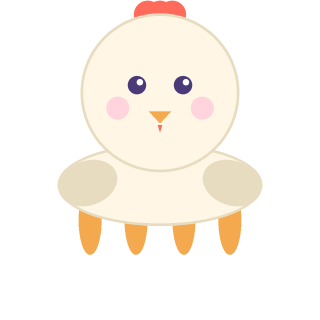
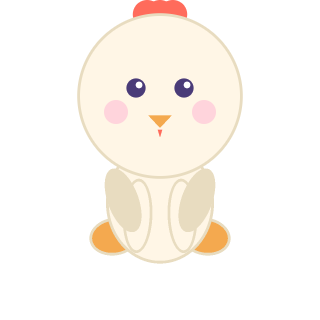
Refine characters around the original face style

diff --git a/tools/generate-animals.js b/tools/generate-animals.js
@@ -25,6 +25,11 @@ function fillCircleOutlined(cv, cx, cy, r, fillColor, outlineColor, outlineWidth
   fillCircle(cv, cx, cy, r, fillColor);
 }
 
+function fillEllipseOutlined(cv, cx, cy, rx, ry, rotation, fillColor, outlineColor, outlineWidth) {
+  fillEllipse(cv, cx, cy, rx + outlineWidth, ry + outlineWidth, rotation, outlineColor);
+  fillEllipse(cv, cx, cy, rx, ry, rotation, fillColor);
+}
+
 function drawEyes(cv, cx, cy, r, eyeDX = 0.32, eyeY = -0.02) {
   fillCircle(cv, cx - r * eyeDX, cy + r * eyeY, r * 0.12, INK);
   fillCircle(cv, cx + r * eyeDX, cy + r * eyeY, r * 0.12, INK);
@@ -37,48 +42,37 @@ function drawBlush(cv, cx, cy, r, color = '#FFB0C8') {
   fillCircle(cv, cx + r * 0.55, cy + r * 0.2, r * 0.15, color, 0.65);
 }
 
-function drawTail(cv, points, outerColor, innerColor, width) {
-  for (let i = 0; i < points.length - 1; i++) {
-    const a = points[i];
-    const b = points[i + 1];
-    strokeLine(cv, a[0], a[1], b[0], b[1], width + 6, outerColor);
-    strokeLine(cv, a[0], a[1], b[0], b[1], width, innerColor);
-  }
-}
+// The first mascot set was face-only and had a soft, round portrait style.
+// Keep that face as the visual anchor and add a compact seated body beneath
+// it. A narrow torso, two front paws and two side-facing back paws read as a
+// complete animal without turning the character into a wide four-legged toy.
+function drawSeatedBody(cv, cx, headCy, headR, bodyColor, outlineColor, footColor) {
+  const bodyRx = headR * 0.64;
+  const bodyRy = headR * 0.72;
+  const bodyCy = headCy + headR * 1.34;
+  const line = headR * 0.035;
 
-// A clear, friendly four-legged animal stance. The head is intentionally
-// smaller than the torso so children can recognise the animal's body,
-// legs, and defining features instead of seeing nine variations of the same
-// oversized face. Legs are drawn first so the torso overlaps their tops and
-// only the lower "foot" ends peek out below the body.
-function drawQuadrupedBody(cv, cx, headCy, headR, bodyColor, outlineColor, footColor) {
-  // Let the head overlap the shoulders. A hard head/body seam makes the
-  // animal look like two stacked balls; this overlap gives it a neck and a
-  // readable chest while keeping the silhouette simple for young children.
-  const bodyRx = headR * 1.30;
-  const bodyRy = headR * 0.50;
-  const bodyCy = headCy + headR * 1.20;
+  fillEllipseOutlined(cv, cx - headR * 0.57, bodyCy + bodyRy * 0.58,
+    headR * 0.28, headR * 0.2, -0.16, footColor, outlineColor, line);
+  fillEllipseOutlined(cv, cx + headR * 0.57, bodyCy + bodyRy * 0.58,
+    headR * 0.28, headR * 0.2, 0.16, footColor, outlineColor, line);
 
-  const legRx = headR * 0.15;
-  const legRy = headR * 0.45;
-  const legCy = bodyCy + bodyRy * 0.92;
-  [-0.7, -0.24, 0.24, 0.7].forEach((fx) => {
-    fillEllipse(cv, cx + fx * bodyRx, legCy, legRx, legRy, 0, footColor);
-  });
+  fillEllipseOutlined(cv, cx, bodyCy, bodyRx, bodyRy, 0, bodyColor, outlineColor, line);
 
-  fillEllipse(cv, cx, bodyCy, bodyRx + headR * 0.035, bodyRy + headR * 0.035, 0, outlineColor);
-  fillEllipse(cv, cx, bodyCy, bodyRx, bodyRy, 0, bodyColor);
+  fillEllipseOutlined(cv, cx - headR * 0.28, bodyCy + bodyRy * 0.22,
+    headR * 0.15, headR * 0.43, 0.04, bodyColor, outlineColor, line);
+  fillEllipseOutlined(cv, cx + headR * 0.28, bodyCy + bodyRy * 0.22,
+    headR * 0.15, headR * 0.43, -0.04, bodyColor, outlineColor, line);
 
   return { bodyCy, bodyRx, bodyRy };
 }
 
 function drawDog(size) {
   const cv = makeCanvas(size, size);
-  const cx = size * 0.5, cy = size * 0.29, r = size * 0.24;
+  const cx = size * 0.5, cy = size * 0.3, r = size * 0.25;
   const fur = '#E8B372', outline = '#C9925A', earColor = '#C9925A', snoutColor = '#FBEBD8';
 
-  drawTail(cv, [[cx + r * 0.9, cy + r * 1.12], [cx + r * 1.35, cy + r * 0.86], [cx + r * 1.42, cy + r * 0.52]], outline, fur, r * 0.16);
-  drawQuadrupedBody(cv, cx, cy, r, fur, outline, outline);
+  drawSeatedBody(cv, cx, cy, r, fur, outline, earColor);
 
   fillEllipse(cv, cx - r * 0.92, cy - r * 0.05, r * 0.3, r * 0.62, 0.35, earColor);
   fillEllipse(cv, cx + r * 0.92, cy - r * 0.05, r * 0.3, r * 0.62, -0.35, earColor);
@@ -96,11 +90,10 @@ function drawDog(size) {
 
 function drawCat(size) {
   const cv = makeCanvas(size, size);
-  const cx = size * 0.5, cy = size * 0.29, r = size * 0.24;
+  const cx = size * 0.5, cy = size * 0.3, r = size * 0.25;
   const fur = '#FFEFD9', outline = '#E9C9A0', patch = '#F4A94F';
 
-  drawTail(cv, [[cx - r * 0.95, cy + r * 1.18], [cx - r * 1.35, cy + r * 0.95], [cx - r * 1.38, cy + r * 0.62]], outline, fur, r * 0.15);
-  drawQuadrupedBody(cv, cx, cy, r, fur, outline, outline);
+  drawSeatedBody(cv, cx, cy, r, fur, outline, outline);
 
   fillPolygon(cv, earTriangle(cx, cy, r, -125, 0.8, 0.62, 0.62), outline);
   fillPolygon(cv, earTriangle(cx, cy, r, -55, 0.8, 0.62, 0.62), outline);
@@ -129,10 +122,10 @@ function drawCat(size) {
 
 function drawCow(size) {
   const cv = makeCanvas(size, size);
-  const cx = size * 0.5, cy = size * 0.29, r = size * 0.24;
+  const cx = size * 0.5, cy = size * 0.3, r = size * 0.25;
   const fur = '#FDFBF5', outline = '#D8D0C0', patch = '#6B5B4A', snoutColor = '#FFC7D6', hornColor = '#F0E4D0';
 
-  const body = drawQuadrupedBody(cv, cx, cy, r, fur, outline, outline);
+  const body = drawSeatedBody(cv, cx, cy, r, fur, outline, outline);
   fillEllipse(cv, cx - body.bodyRx * 0.62, body.bodyCy, body.bodyRx * 0.28, body.bodyRy * 0.42, -0.2, patch);
   fillEllipse(cv, cx + body.bodyRx * 0.58, body.bodyCy + body.bodyRy * 0.08, body.bodyRx * 0.24, body.bodyRy * 0.38, 0.15, patch);
 
@@ -156,10 +149,10 @@ function drawCow(size) {
 
 function drawFrog(size) {
   const cv = makeCanvas(size, size);
-  const cx = size * 0.5, cy = size * 0.31, r = size * 0.24;
+  const cx = size * 0.5, cy = size * 0.31, r = size * 0.25;
   const skin = '#8BC34A', outline = '#5E8F2E', belly = '#DFF3BC';
 
-  const body = drawQuadrupedBody(cv, cx, cy, r, skin, outline, outline);
+  const body = drawSeatedBody(cv, cx, cy, r, skin, outline, outline);
   fillEllipse(cv, cx, body.bodyCy, body.bodyRx * 0.54, body.bodyRy * 0.56, 0, belly);
   fillCircleOutlined(cv, cx, cy, r, skin, outline, r * 0.035);
 
@@ -178,11 +171,10 @@ function drawFrog(size) {
 
 function drawPig(size) {
   const cv = makeCanvas(size, size);
-  const cx = size * 0.5, cy = size * 0.29, r = size * 0.24;
+  const cx = size * 0.5, cy = size * 0.3, r = size * 0.25;
   const fur = '#FFB3C6', outline = '#E8899E', snoutColor = '#FF8FA8';
 
-  drawTail(cv, [[cx + r * 0.96, cy + r * 1.16], [cx + r * 1.34, cy + r * 1.12], [cx + r * 1.23, cy + r * 0.86], [cx + r * 1.05, cy + r * 0.98]], outline, fur, r * 0.13);
-  drawQuadrupedBody(cv, cx, cy, r, fur, outline, outline);
+  drawSeatedBody(cv, cx, cy, r, fur, outline, outline);
 
   fillPolygon(cv, earTriangle(cx, cy, r, -120, 0.75, 0.42, 0.4), outline);
   fillPolygon(cv, earTriangle(cx, cy, r, -60, 0.75, 0.42, 0.4), outline);
@@ -201,10 +193,10 @@ function drawPig(size) {
 
 function drawChicken(size) {
   const cv = makeCanvas(size, size);
-  const cx = size * 0.5, cy = size * 0.29, r = size * 0.24;
+  const cx = size * 0.5, cy = size * 0.3, r = size * 0.25;
   const feather = '#FFF6E6', outline = '#E8DCC0', comb = '#FF6B5B', beak = '#F4A94F';
 
-  const body = drawQuadrupedBody(cv, cx, cy, r, feather, outline, beak);
+  const body = drawSeatedBody(cv, cx, cy, r, feather, outline, beak);
   fillEllipse(cv, cx - body.bodyRx * 0.72, body.bodyCy - body.bodyRy * 0.05, body.bodyRx * 0.3, body.bodyRy * 0.58, -0.35, outline);
   fillEllipse(cv, cx + body.bodyRx * 0.72, body.bodyCy - body.bodyRy * 0.05, body.bodyRx * 0.3, body.bodyRy * 0.58, 0.35, outline);
 
@@ -220,12 +212,10 @@ function drawChicken(size) {
 
 function drawLion(size) {
   const cv = makeCanvas(size, size);
-  const cx = size * 0.5, cy = size * 0.29, r = size * 0.24;
+  const cx = size * 0.5, cy = size * 0.3, r = size * 0.25;
   const fur = '#F2B84B', outline = '#D89A2E', mane = '#E08A2E', snoutColor = '#FBEBD8';
 
-  drawTail(cv, [[cx + r * 0.9, cy + r * 1.18], [cx + r * 1.38, cy + r * 1.02], [cx + r * 1.46, cy + r * 0.68]], outline, fur, r * 0.15);
-  fillCircle(cv, cx + r * 1.46, cy + r * 0.62, r * 0.22, mane);
-  drawQuadrupedBody(cv, cx, cy, r, fur, outline, outline);
+  drawSeatedBody(cv, cx, cy, r, fur, outline, outline);
 
   const maneCount = 14;
   for (let i = 0; i < maneCount; i++) {
@@ -247,11 +237,10 @@ function drawLion(size) {
 
 function drawElephant(size) {
   const cv = makeCanvas(size, size);
-  const cx = size * 0.5, cy = size * 0.29, r = size * 0.24;
+  const cx = size * 0.5, cy = size * 0.3, r = size * 0.25;
   const fur = '#C3CAD3', outline = '#9AA5B0';
 
-  drawTail(cv, [[cx - r * 0.96, cy + r * 1.12], [cx - r * 1.32, cy + r * 1.2], [cx - r * 1.42, cy + r * 1.02]], outline, fur, r * 0.1);
-  drawQuadrupedBody(cv, cx, cy, r, fur, outline, outline);
+  drawSeatedBody(cv, cx, cy, r, fur, outline, outline);
 
   fillEllipse(cv, cx - r * 1.0, cy - r * 0.08, r * 0.48, r * 0.6, 0.12, outline);
   fillEllipse(cv, cx + r * 1.0, cy - r * 0.08, r * 0.48, r * 0.6, -0.12, outline);
@@ -275,10 +264,10 @@ function drawElephant(size) {
 
 function drawSheep(size) {
   const cv = makeCanvas(size, size);
-  const cx = size * 0.5, cy = size * 0.29, r = size * 0.24;
+  const cx = size * 0.5, cy = size * 0.3, r = size * 0.25;
   const wool = '#FDFBF5', woolOutline = '#E4DED0', face = '#8D7B6B', faceOutline = '#6E5E50';
 
-  const body = drawQuadrupedBody(cv, cx, cy, r, wool, woolOutline, faceOutline);
+  const body = drawSeatedBody(cv, cx, cy, r, wool, woolOutline, faceOutline);
   for (let i = 0; i < 7; i++) {
     const a = Math.PI * (0.15 + i / 7 * 0.7);
     fillCircle(cv, cx + Math.cos(a) * body.bodyRx * 0.88, body.bodyCy + Math.sin(a) * body.bodyRy * 0.84, r * 0.22, wool);

diff --git a/tools/generate-characters.js b/tools/generate-characters.js
@@ -22,23 +22,31 @@ function fillCircleOutlined(cv, cx, cy, r, fillColor, outlineColor, outlineWidth
   fillCircle(cv, cx, cy, r, fillColor);
 }
 
-// A friendly standing body drawn beneath the head. The body is large enough
-// to read as a real character at small sizes, while the head remains the
-// visual focus for toddlers. It is drawn first so the head overlaps the
-// shoulders instead of looking like two stacked circles.
+function fillEllipseOutlined(cv, cx, cy, rx, ry, rotation, fillColor, outlineColor, outlineWidth) {
+  fillEllipse(cv, cx, cy, rx + outlineWidth, ry + outlineWidth, rotation, outlineColor);
+  fillEllipse(cv, cx, cy, rx, ry, rotation, fillColor);
+}
+
+// Preserve the original face-only mascot design and place a narrow, simple
+// body behind it. The head remains the main shape; the torso is deliberately
+// slimmer so the result reads as one character rather than two stacked balls.
 function drawStandingBody(cv, cx, headCy, headR, bodyColor, outlineColor, footColor) {
-  const bodyRx = headR * 0.84;
-  const bodyRy = headR * 0.62;
-  const bodyCy = headCy + headR * 1.16;
+  const bodyRx = headR * 0.6;
+  const bodyRy = headR * 0.74;
+  const bodyCy = headCy + headR * 1.34;
+  const line = headR * 0.035;
 
-  fillEllipse(cv, cx - bodyRx * 0.5, bodyCy + bodyRy * 0.86, headR * 0.24, headR * 0.15, 0.08, footColor);
-  fillEllipse(cv, cx + bodyRx * 0.5, bodyCy + bodyRy * 0.86, headR * 0.24, headR * 0.15, -0.08, footColor);
+  fillEllipseOutlined(cv, cx - headR * 0.34, bodyCy + bodyRy * 0.72,
+    headR * 0.23, headR * 0.15, 0.08, footColor, outlineColor, line);
+  fillEllipseOutlined(cv, cx + headR * 0.34, bodyCy + bodyRy * 0.72,
+    headR * 0.23, headR * 0.15, -0.08, footColor, outlineColor, line);
 
-  fillEllipse(cv, cx - bodyRx * 0.98, bodyCy - bodyRy * 0.05, headR * 0.2, headR * 0.36, 0.4, bodyColor);
-  fillEllipse(cv, cx + bodyRx * 0.98, bodyCy - bodyRy * 0.05, headR * 0.2, headR * 0.36, -0.4, bodyColor);
+  fillEllipseOutlined(cv, cx - bodyRx * 1.02, bodyCy - bodyRy * 0.08,
+    headR * 0.17, headR * 0.34, 0.3, bodyColor, outlineColor, line);
+  fillEllipseOutlined(cv, cx + bodyRx * 1.02, bodyCy - bodyRy * 0.08,
+    headR * 0.17, headR * 0.34, -0.3, bodyColor, outlineColor, line);
 
-  fillEllipse(cv, cx, bodyCy, bodyRx + headR * 0.035, bodyRy + headR * 0.035, 0, outlineColor);
-  fillEllipse(cv, cx, bodyCy, bodyRx, bodyRy, 0, bodyColor);
+  fillEllipseOutlined(cv, cx, bodyCy, bodyRx, bodyRy, 0, bodyColor, outlineColor, line);
 
   return { bodyCy, bodyRx, bodyRy };
 }
@@ -57,7 +65,7 @@ function drawFace(cv, cx, cy, r, { blush = '#FFB0C8', mouth = '#FF6FA5' } = {}) 
 
 function drawBear(size) {
   const cv = makeCanvas(size, size);
-  const cx = size * 0.5, cy = size * 0.31, r = size * 0.27;
+  const cx = size * 0.5, cy = size * 0.31, r = size * 0.25;
   const fur = '#E3A76F';
   const furDark = '#C98B57';
   const outline = '#B87A45';
@@ -84,7 +92,7 @@ function drawBear(size) {
 
 function drawCat(size) {
   const cv = makeCanvas(size, size);
-  const cx = size * 0.5, cy = size * 0.31, r = size * 0.27;
+  const cx = size * 0.5, cy = size * 0.31, r = size * 0.25;
   const fur = '#FFEFD9';
   const outline = '#E9C9A0';
   const patch = '#F4A94F';
@@ -133,7 +141,7 @@ function drawCat(size) {
 
 function drawRabbit(size) {
   const cv = makeCanvas(size, size);
-  const cx = size * 0.5, cy = size * 0.31, r = size * 0.27;
+  const cx = size * 0.5, cy = size * 0.31, r = size * 0.25;
   const fur = '#FFF8FA';
   const outline = '#F3C9D8';
   const inner = '#FFC2D6';

diff --git a/sw.js b/sw.js
@@ -2,7 +2,7 @@
 // (the whole point: this app is meant to be used out and about).
 // Paths are relative to this file's own location, so it works whether the
 // site is hosted at a domain root or a GitHub Pages project subpath.
-const CACHE_VERSION = 'v29';
+const CACHE_VERSION = 'v30';
 const CACHE_NAME = `asobibako-${CACHE_VERSION}`;
 
 const PRECACHE_URLS = [
